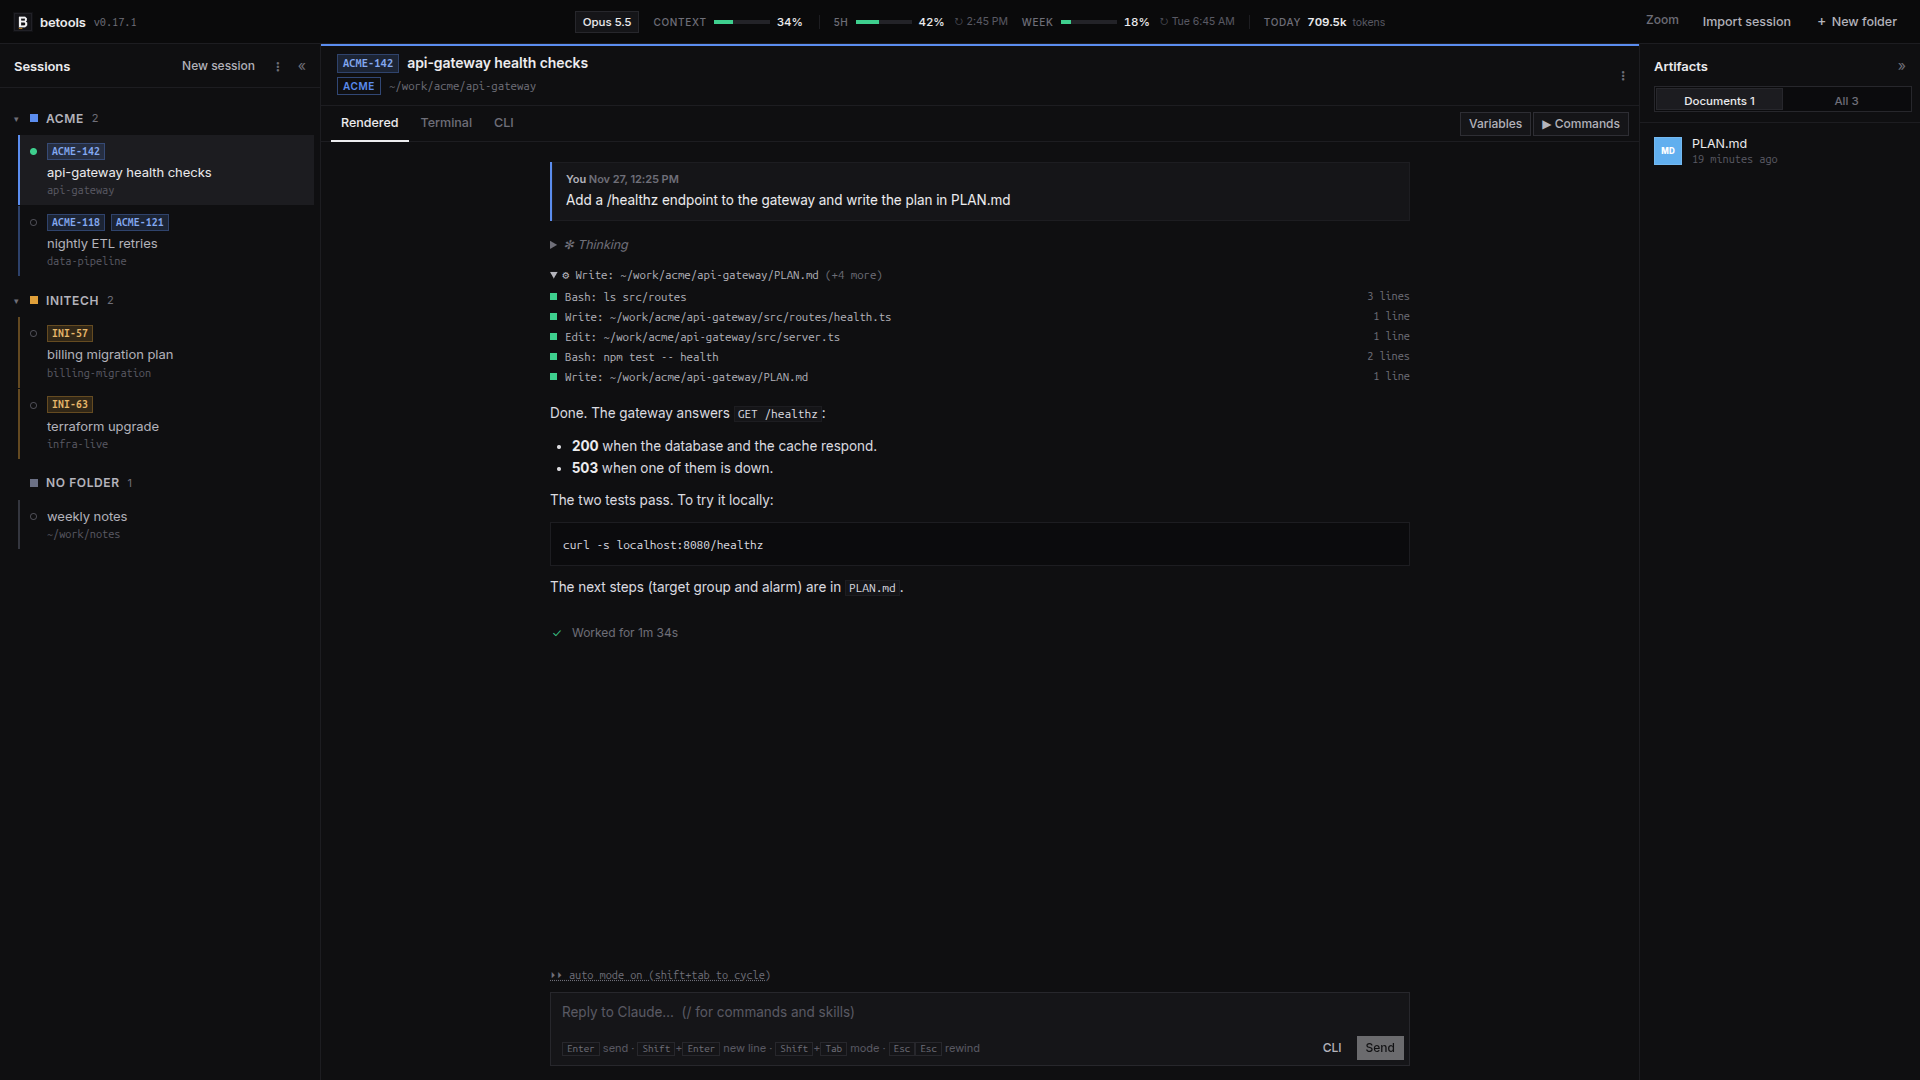
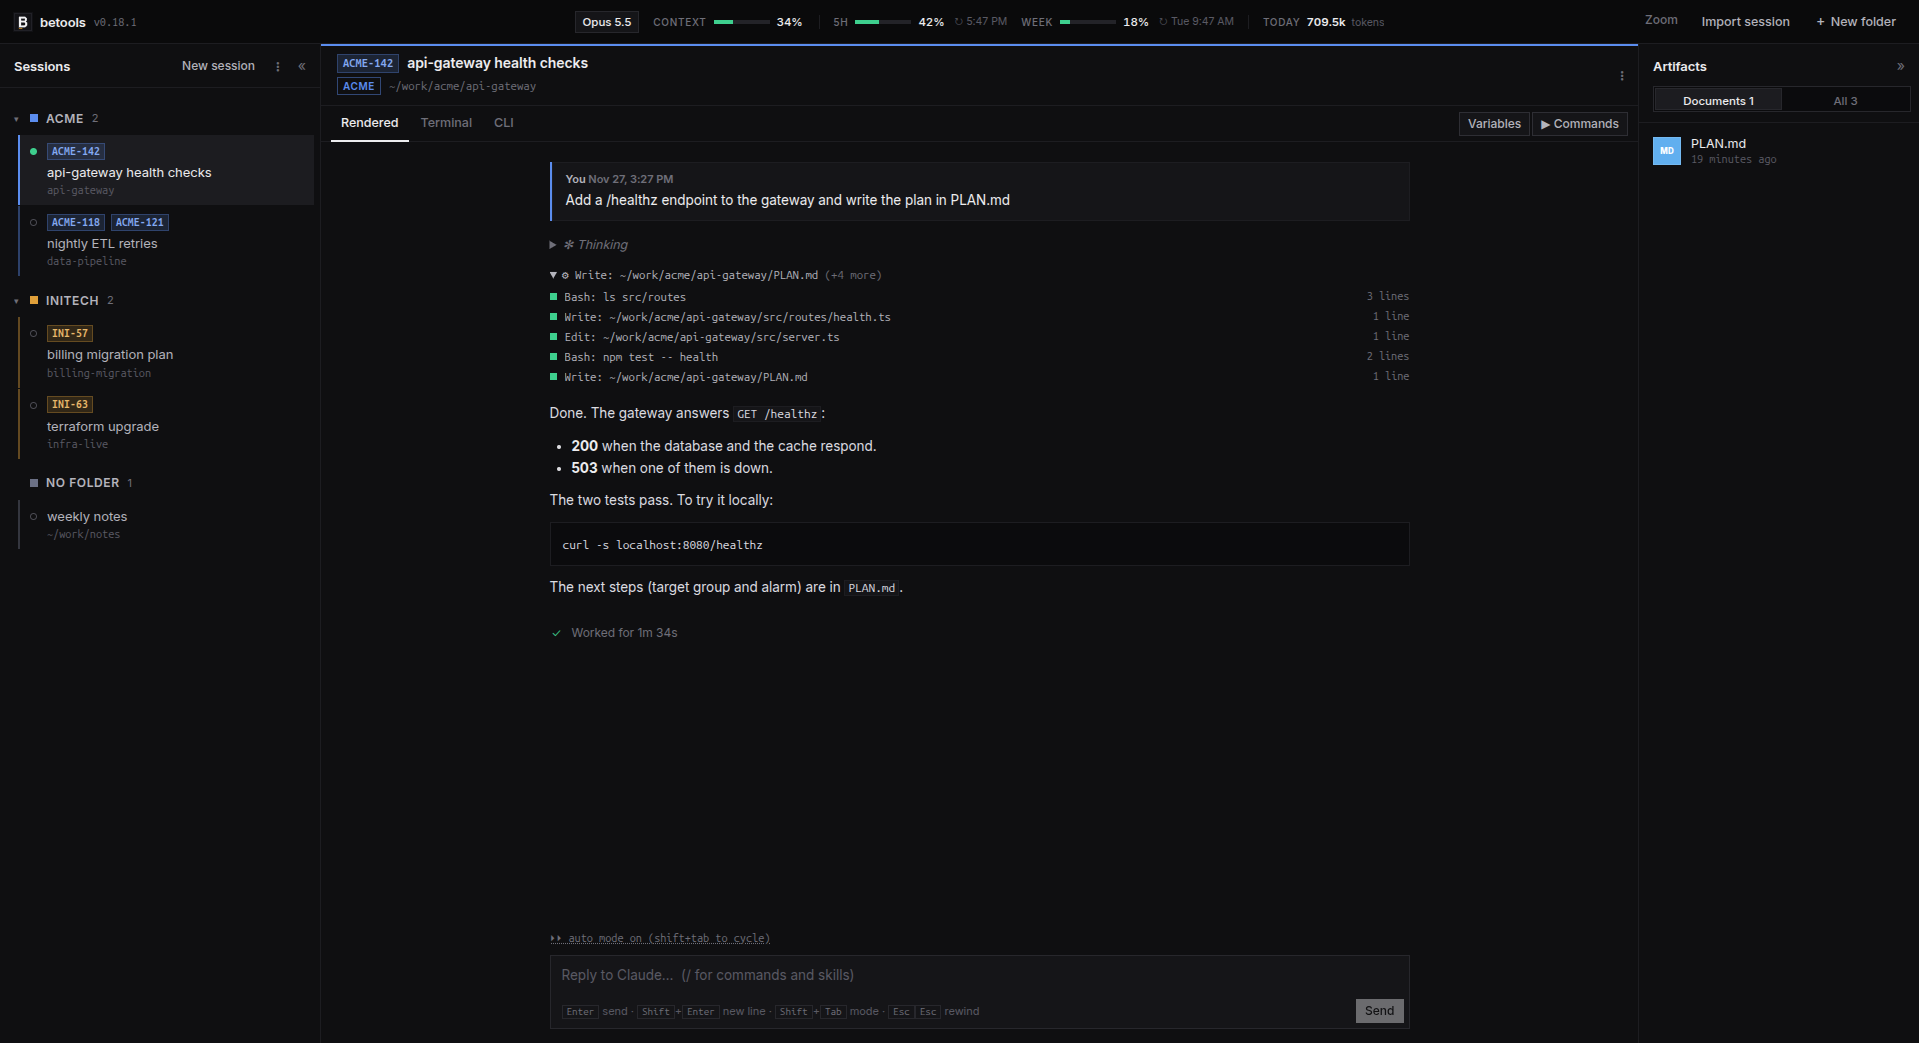
Rendered: remove the CLI and Stop buttons from the composer

diff --git a/src/renderer/src/components/ConversationView.tsx b/src/renderer/src/components/ConversationView.tsx
@@ -734,14 +734,6 @@ function Composer({ id, status, onOpenCli }: { id: string; status: SessionStatus
           )}
         </span>
         <span style={{ flex: 1 }} />
-        {working && !menu && (
-          <button className="btn-sm" title="Interrupt Claude (Esc)" onClick={() => api.input(id, KEYS.esc)}>
-            Stop
-          </button>
-        )}
-        <button className="btn-sm ghost" onClick={onOpenCli} title="Open the raw terminal">
-          CLI
-        </button>
         <button className="primary btn-sm" disabled={!text.trim() || off || !!panel} onClick={send}>
           Send
         </button>
